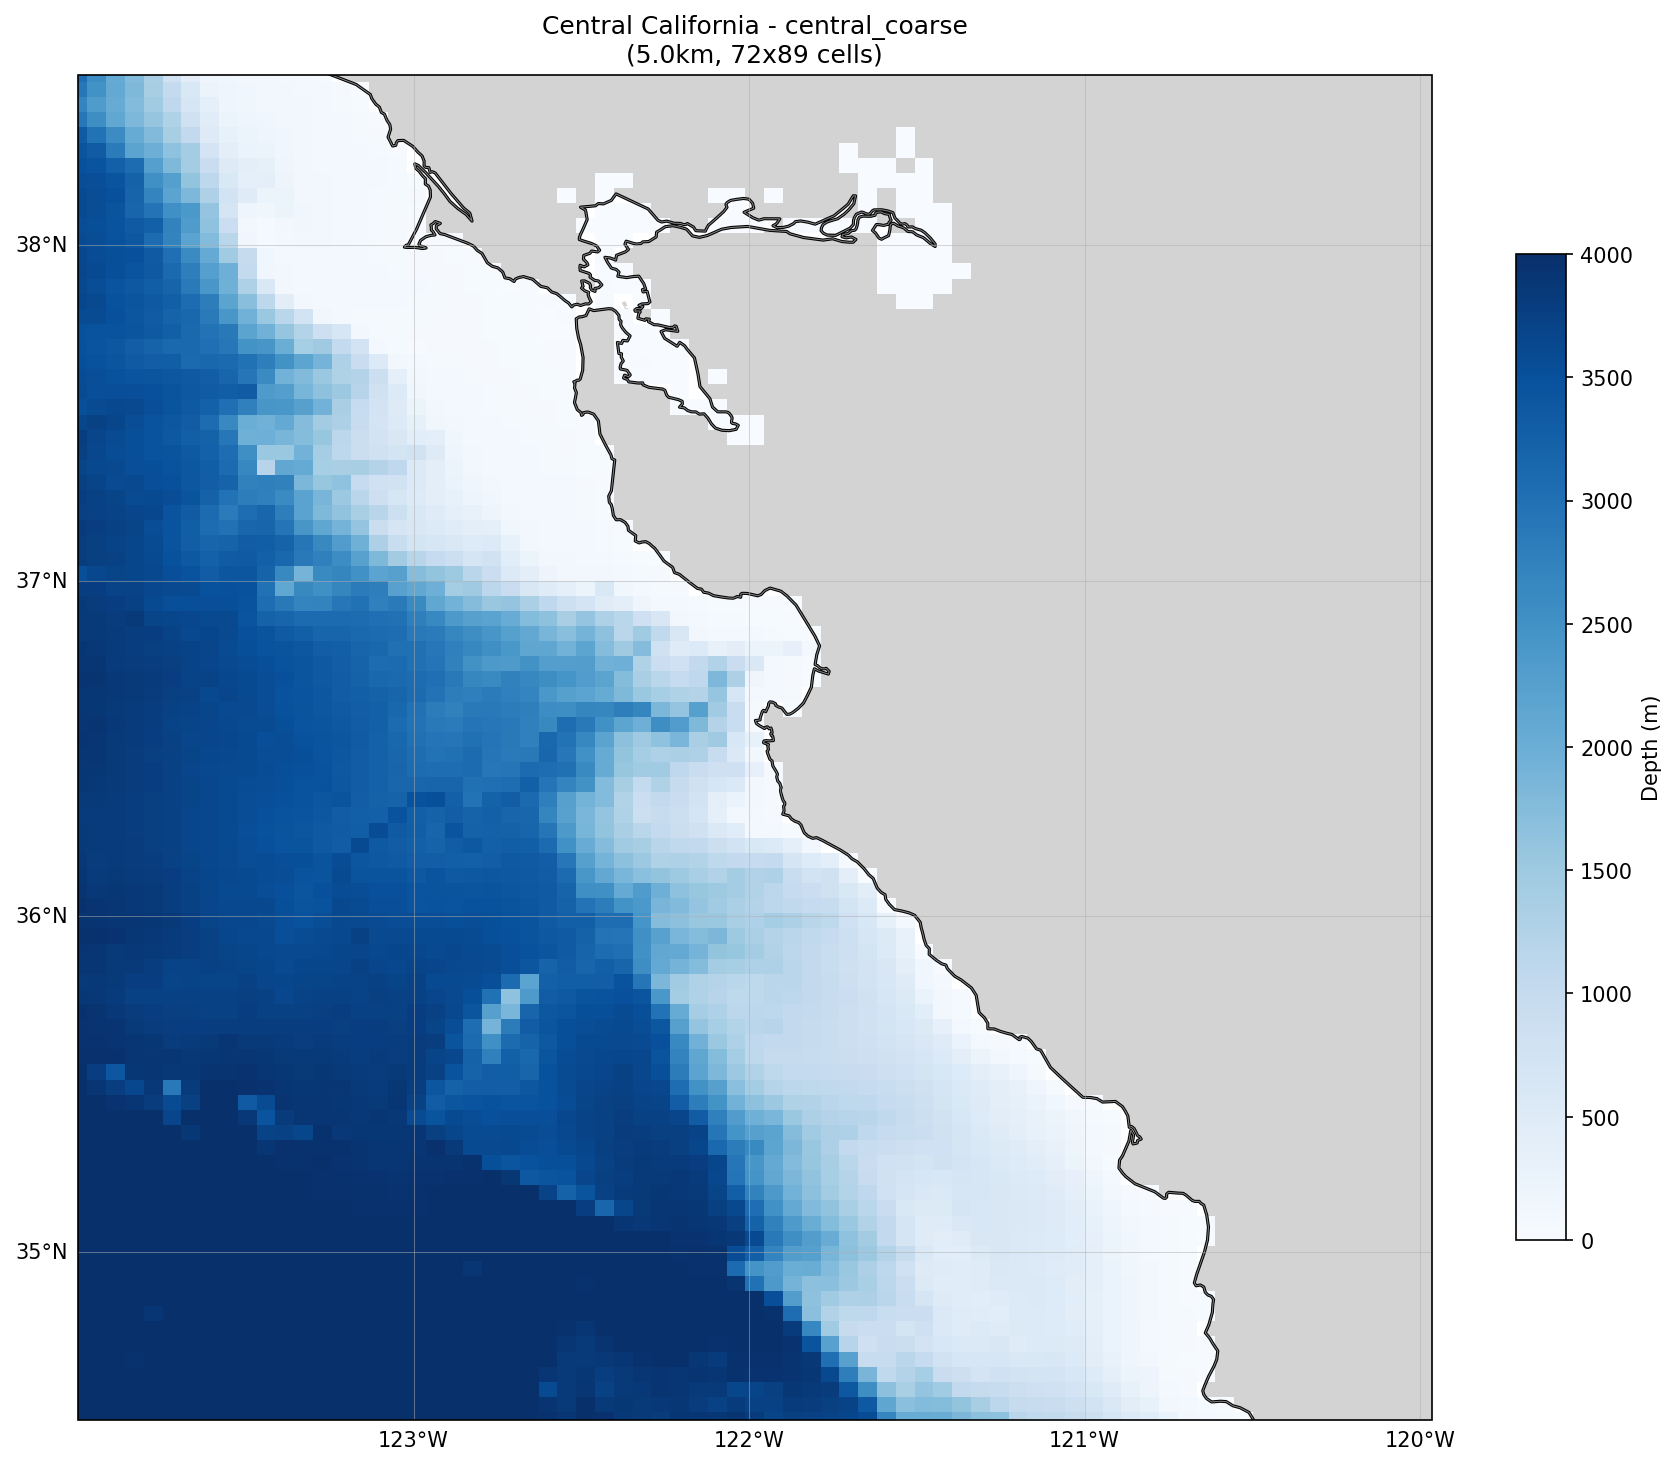
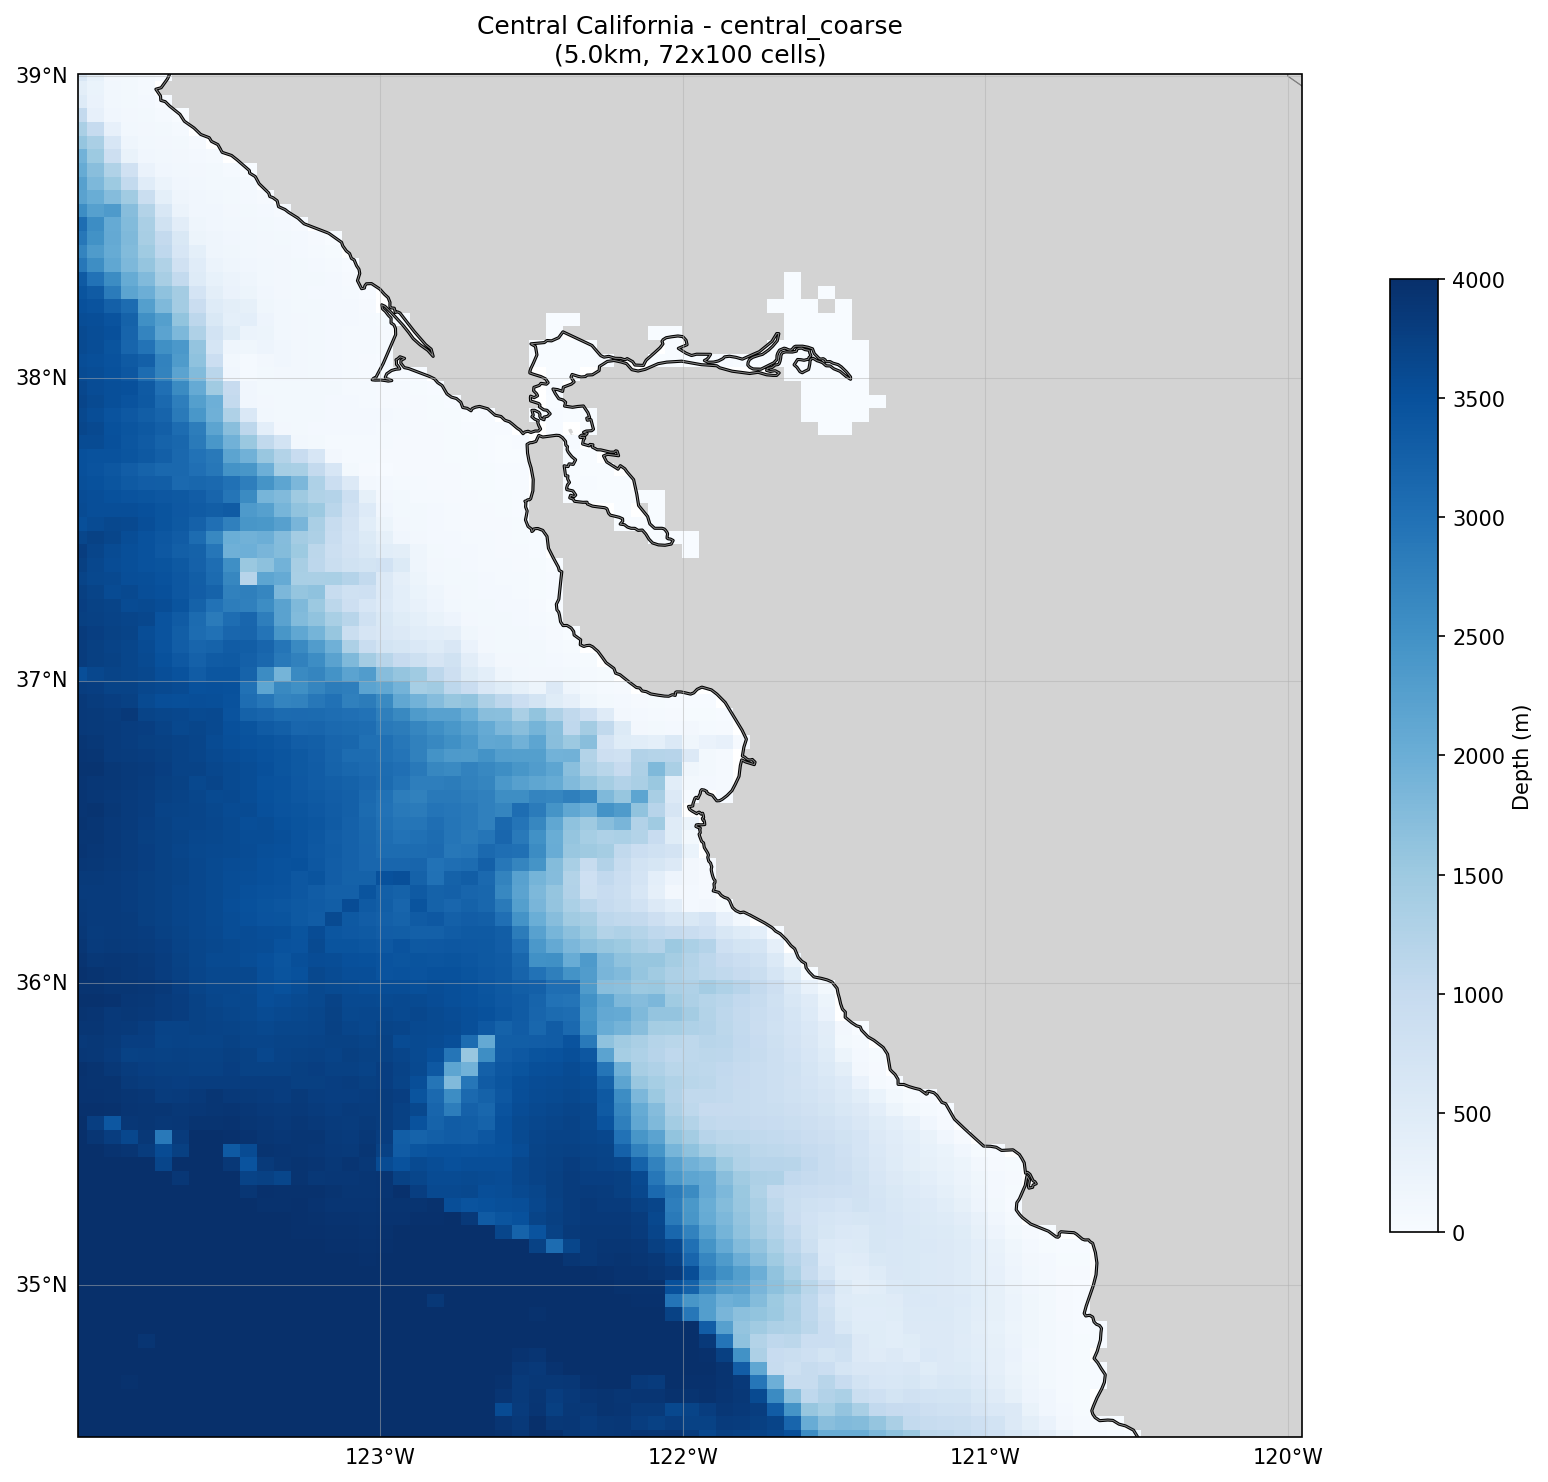
fine meshes for norcal and central ca

diff --git a/data/regions/region.py b/data/regions/region.py
@@ -192,7 +192,7 @@ CENTRAL_CAL = Region(
     name="central",
     display_name="Central California",
     bounds={
-        "lat": (34.5, 38.5),      # Point Conception to ~Point Reyes
+        "lat": (34.5, 39.0),      # Point Conception to ~Point Reyes (+0.5° overlap with norcal)
         "lon": (-124.0, -120.0),
     },
     parent=CALIFORNIA,
@@ -203,7 +203,7 @@ SOCAL = Region(
     name="socal",
     display_name="Southern California",
     bounds={
-        "lat": (32.0, 34.5),      # Mexico border to Point Conception
+        "lat": (32.0, 35.0),      # Mexico border to Point Conception (+0.5° overlap with central)
         "lon": (-121.0, -117.0),
     },
     parent=CALIFORNIA,
@@ -222,6 +222,8 @@ SOCAL = Region(
         (-121.0, 34.0),
         (-121.0, 34.25),
         (-121.0, 34.5),
+        (-121.0, 34.75),
+        (-121.0, 35.0),
     ],
 )
 
